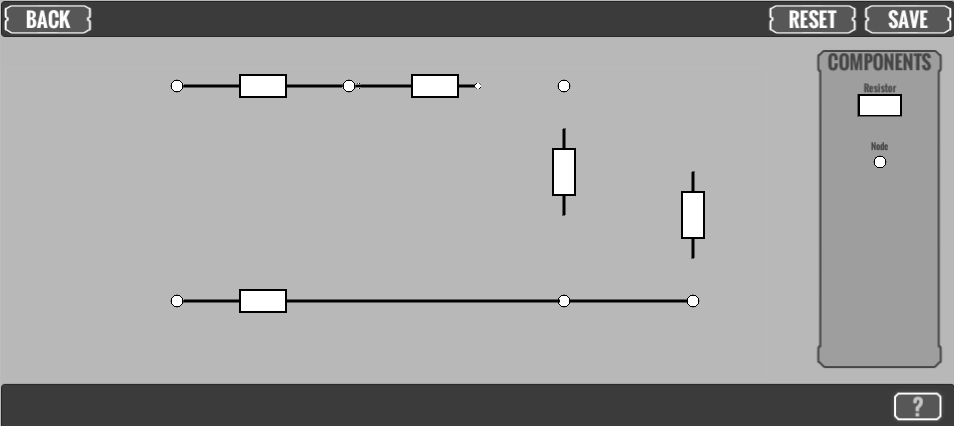
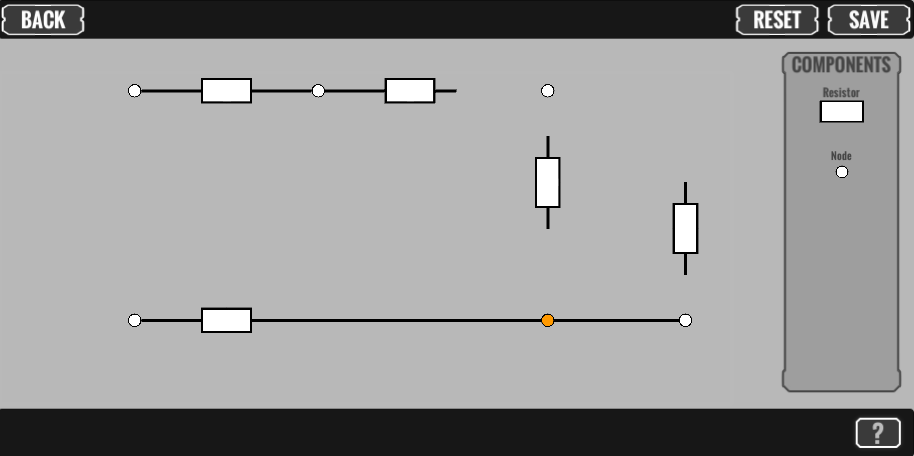
changes

diff --git a/Assets/Scripts/UI/GamePlay.cs b/Assets/Scripts/UI/GamePlay.cs
@@ -16,10 +16,10 @@ public class GamePlay : MonoBehaviour
     public Text time, final;
     public int numQ = 0;
     public Image circuit;
-    public Sprite[] circuits = new Sprite[9];
     public Transform gameOver, goBack;
     public Boolean pause;
     public InputField p1ans, p2ans;
+    public LoadRandomCircuit load = new LoadRandomCircuit();
 
     void Awake()
     {
@@ -27,17 +27,6 @@ public class GamePlay : MonoBehaviour
         one = SelectPlayer.ONE;
         two = SelectPlayer.TWO;
         numplayer = SelectPlayer.PNUM;
-
-        circuits[0] = Resources.Load<Sprite>("circuit/circuitOne");
-        circuits[1] = Resources.Load<Sprite>("circuit/circuitTwo");
-        circuits[2] = Resources.Load<Sprite>("circuit/circuitThree");
-        circuits[3] = Resources.Load<Sprite>("circuit/circuitFour");
-        circuits[4] = Resources.Load<Sprite>("circuit/circuitFive");
-        circuits[5] = Resources.Load<Sprite>("circuit/circuitSix");
-        circuits[6] = Resources.Load<Sprite>("circuit/circuitSeven");
-        circuits[7] = Resources.Load<Sprite>("circuit/circuitEight");
-        circuits[8] = Resources.Load<Sprite>("circuit/circuitNine");
-
 
         if (numplayer == 1)
         {
@@ -47,7 +36,7 @@ public class GamePlay : MonoBehaviour
             {
                 case 1:
                     playerOne.image.sprite = Resources.Load<Sprite>("chara/CAP");
-                    //playerOne.gameObject.GetComponent<Animator>() = Resources.Load<Animator>("cahra.cao");
+                    //playerOne.gameObject.GetComponents<Animator> = (Resources.Load<Animator>("cahra.cao"));
                     break;
                 case 2:
                     playerOne.image.sprite = Resources.Load<Sprite>("chara/LED");
@@ -104,9 +93,8 @@ public class GamePlay : MonoBehaviour
     void Start()
     {
         gameOver.gameObject.SetActive(false);
-        circuit.sprite = circuits[0];
         help.text = " < Objective >: Calculate and Enter the correct equvialent resistance of the circuit. \n < Score System >: Player to answer correct will < +score >. \n IF, both players answer correct within the give time, first person to answer will gain extra points. \n \n<EXIT> : | esc | ";
-       InvokeRepeating("decreaseTimeRemaining", 1 , 1);
+        InvokeRepeating("decreaseTimeRemaining", 1, 1);
     }
 
     private void Update()
@@ -116,7 +104,7 @@ public class GamePlay : MonoBehaviour
         if (Input.GetKeyDown(KeyCode.Escape))
         {
             goBack.gameObject.SetActive(true);
-            //stopTimer
+            CancelInvoke();
         }
 
         if (timer == 0)
@@ -126,8 +114,8 @@ public class GamePlay : MonoBehaviour
             if (numQ == 2)
             {
                 timer = 0;
-                pause = true;
                 gameOver.gameObject.SetActive(true);
+                CancelInvoke();
 
                 if (numplayer == 1)
                 {
@@ -142,7 +130,7 @@ public class GamePlay : MonoBehaviour
 
             else
             {
-                circuit.sprite = circuits[numQ];
+                load.NextCircuit();
                 timer = 20;
             }
         }
@@ -159,5 +147,16 @@ public class GamePlay : MonoBehaviour
     public void HELP()
     {
         state = !state;
+    }
+
+    public void buttonYes()
+    {
+        SceneManager.LoadScene("GameMenu");
+    }
+
+    public void buttonNo()
+    {
+        goBack.gameObject.SetActive(false);
+        InvokeRepeating("decreaseTimeRemaining", 1, 1);
     }
 }

diff --git a/Assets/Scripts/UI/ResistorValue.cs b/Assets/Scripts/UI/ResistorValue.cs
@@ -1,0 +1,19 @@
+using System.Collections;
+using System.Collections.Generic;
+using UnityEngine;
+using UnityEngine.SceneManagement;
+
+public class ResistorValue : MonoBehaviour
+{
+
+    // Use this for initialization
+    void Start()
+    {
+        if (SceneManager.GetActiveScene().name.Equals("PlayScreen"))
+        {
+            var value = gameObject.GetComponent<TextMesh>();
+            value.text = Random.Range(5, 25).ToString();
+            // change Random range value
+        }
+    }
+}

diff --git a/Assets/Scripts/EquivalenceResistance/LoadRandomCircuit.cs b/Assets/Scripts/EquivalenceResistance/LoadRandomCircuit.cs
@@ -25,7 +25,7 @@ public class LoadRandomCircuit : MonoBehaviour {
         numFiles = circuits.Length;
         TransformHandler.SetWireObject(wire);
         TransformHandler.SetActionObject(action);
-        StartCoroutine(DrawCircuit(circuits[currentCircuitIndex]));
+        StartCoroutine(DrawCircuit(circuits[Random.Range(0, numFiles)]));
     }
 
     IEnumerator DrawCircuit(FileInfo file)

diff --git a/Assets/Scripts/EquivalenceResistance/Resistor.cs b/Assets/Scripts/EquivalenceResistance/Resistor.cs
@@ -13,5 +13,11 @@ public class Resistor : MonoBehaviour {
             value.text = Random.Range(5, 25).ToString();
             // change Random range value
         }
+
+        else if(SceneManager.GetActiveScene().name.Equals("PlayScreen"))
+        {
+            var value = gameObject.GetComponent<TextMesh>();
+            value.text = Random.Range(5, 25).ToString();
+        }
 	}
 }

diff --git a/Assets/Scripts/UI/QuitGame.cs b/Assets/Scripts/UI/QuitGame.cs
@@ -8,8 +8,6 @@ public class QuitGame : MonoBehaviour {
 	
 	public Transform goBack;
 
-    public Button yes, no;
-
     public void buttonYes()
     {
         SceneManager.LoadScene("GameMenu");

diff --git a/Assets/Scripts/UI/GameOver.cs b/Assets/Scripts/UI/GameOver.cs
@@ -6,8 +6,6 @@ using UnityEngine.UI;
 
 public class GameOver : MonoBehaviour {
 
-    public Button yes, no;
-
     public void buttonYes()
     {
         SceneManager.LoadScene("PlayScreen");
